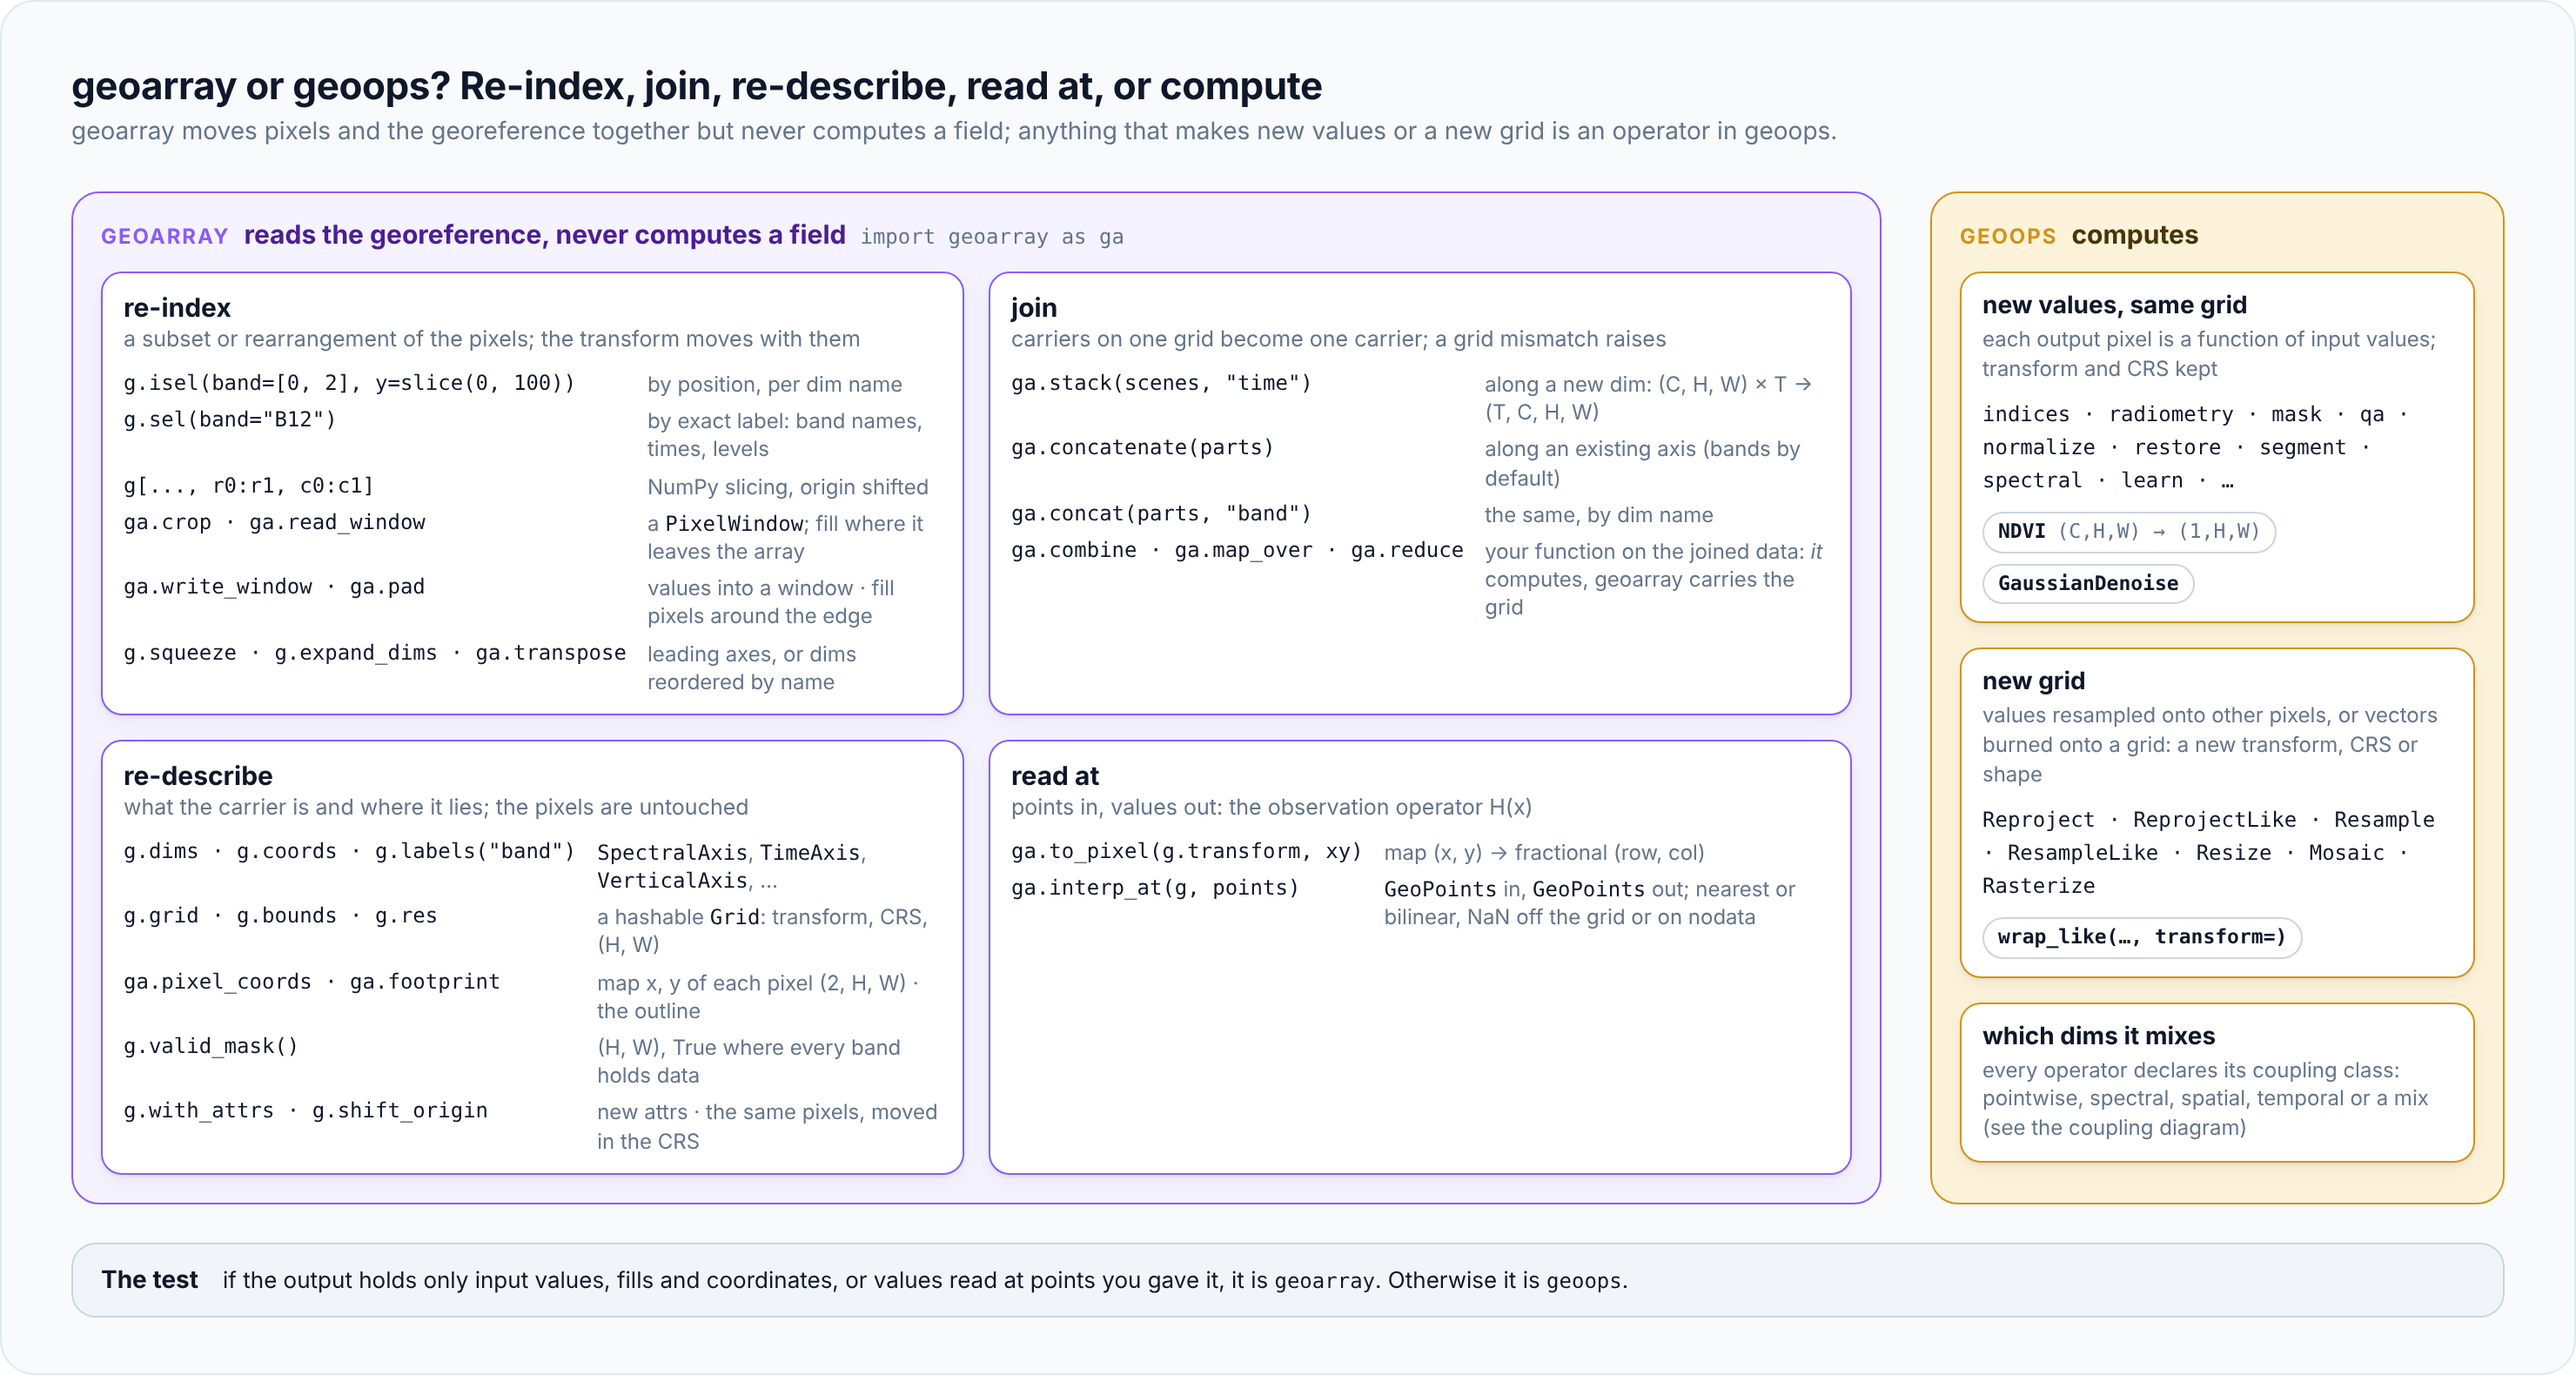
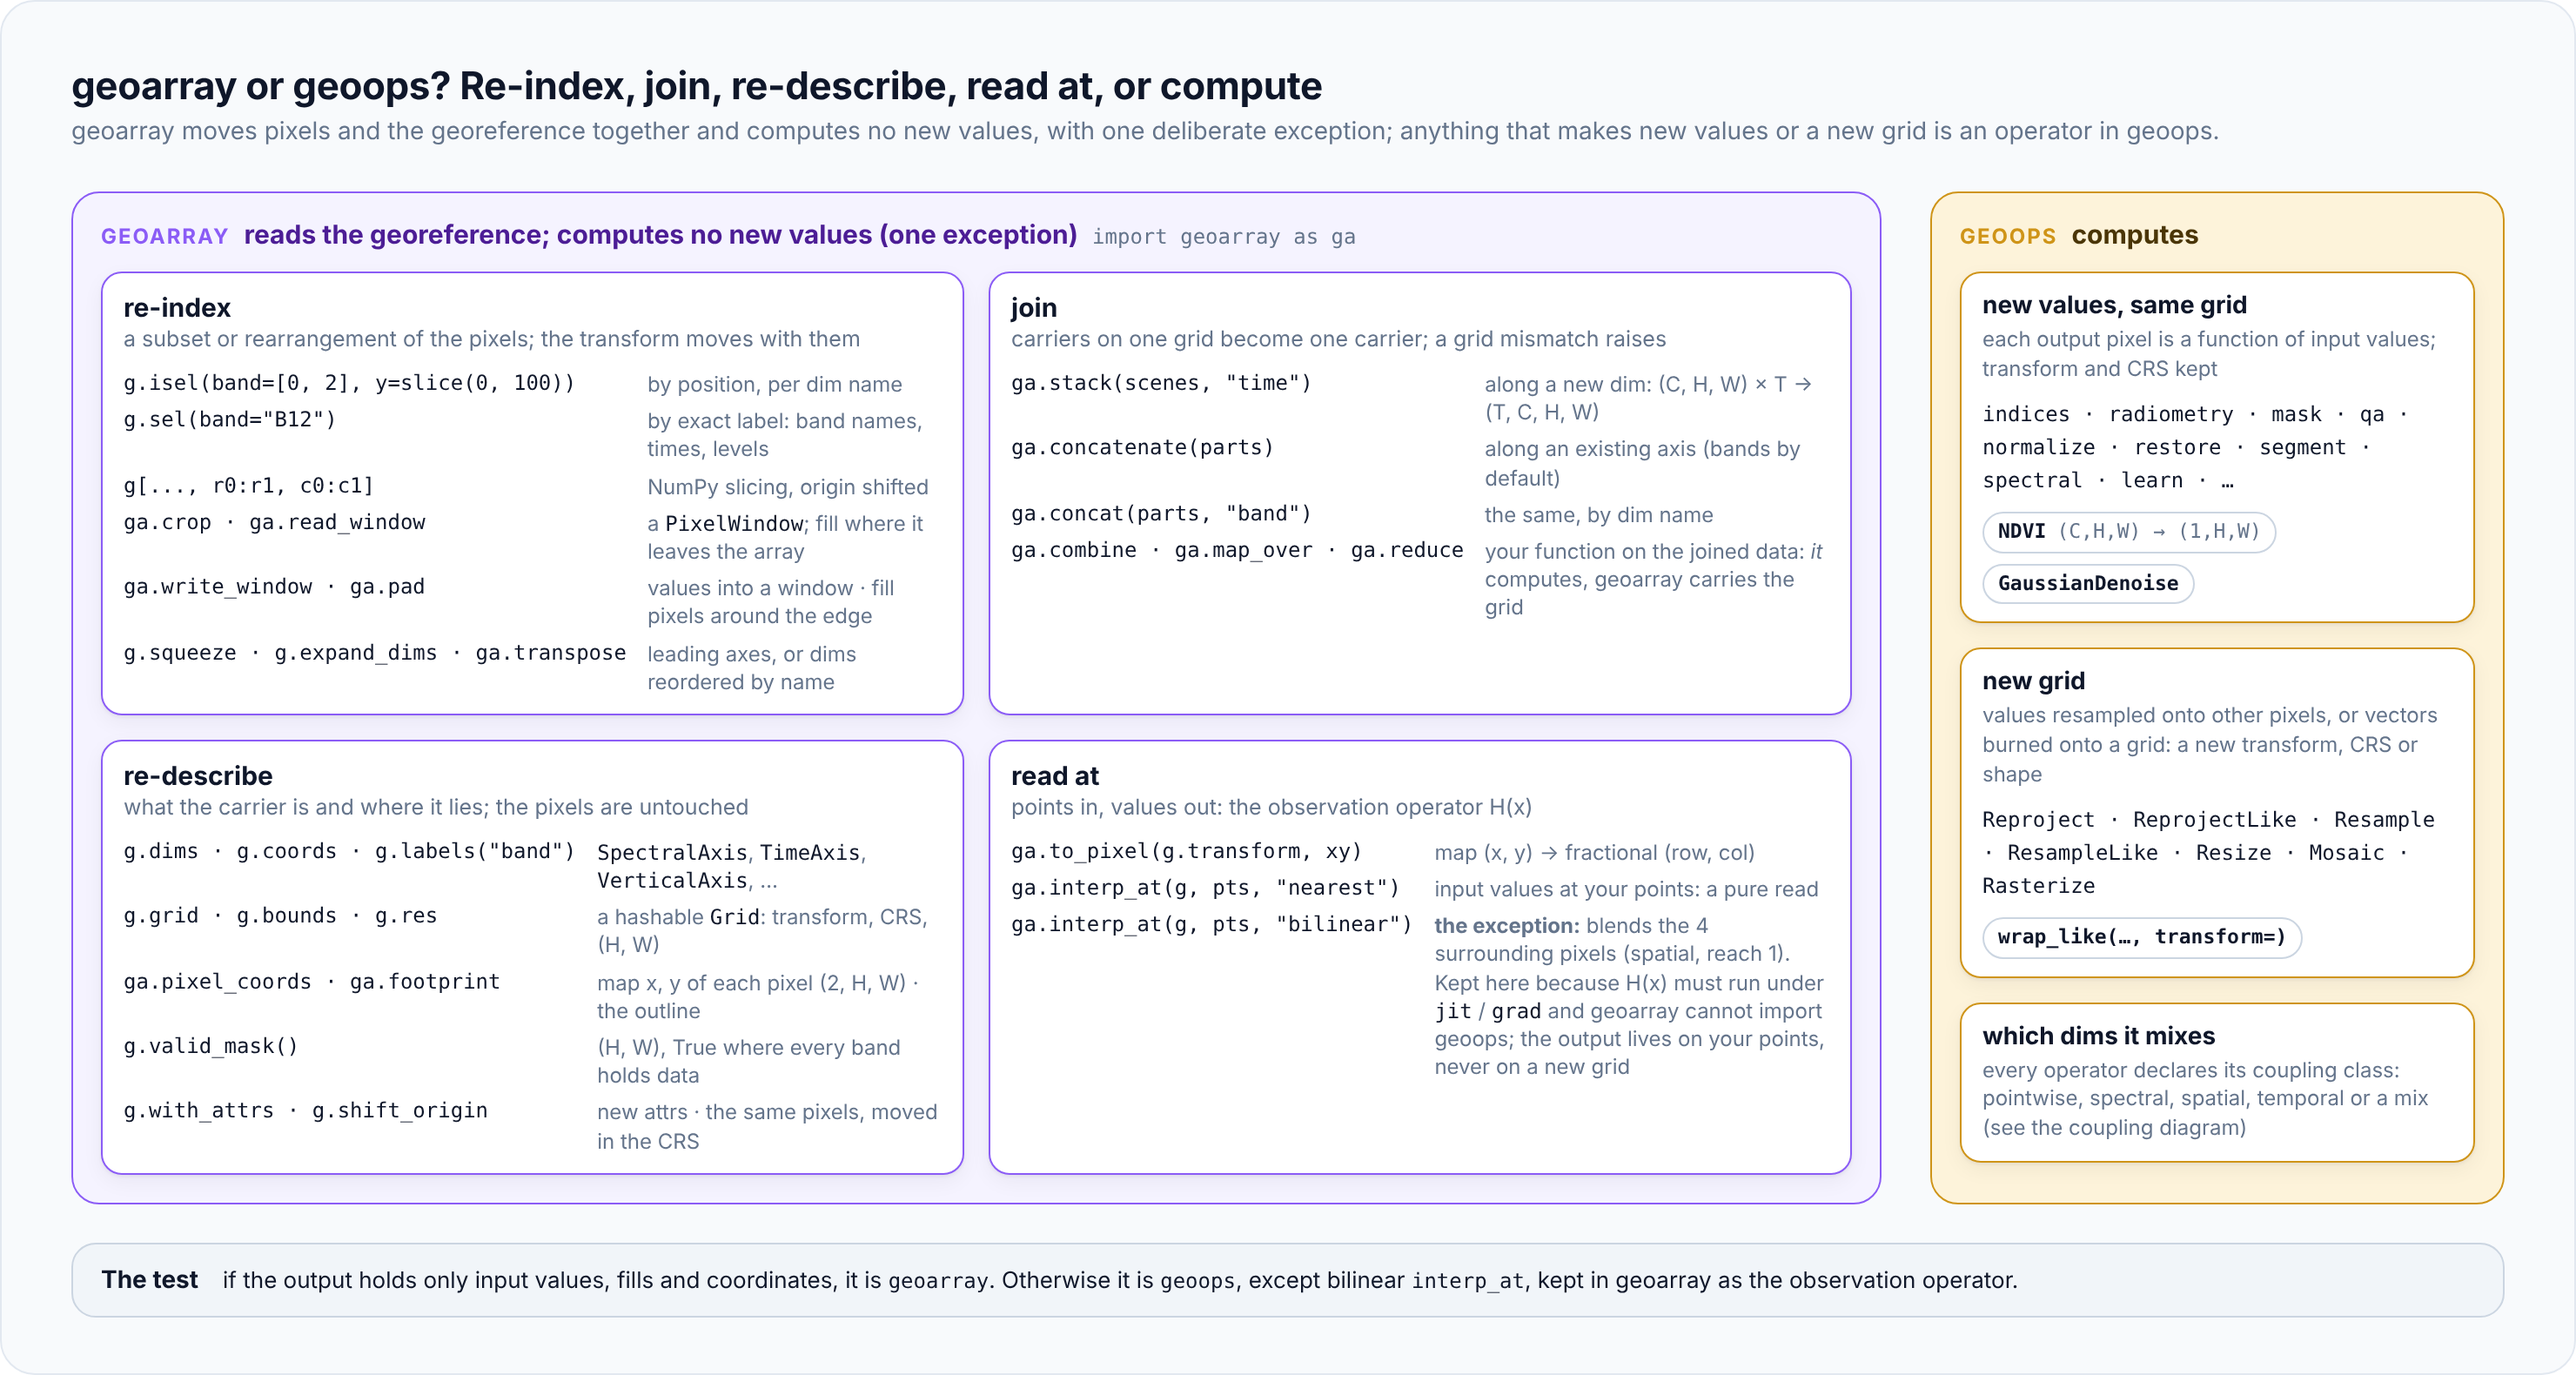
docs(diagrams): name bilinear interp_at as geoarray's one computation
Bilinear sampling blends four pixels, so it computes new values; only
nearest is a pure read. The diagram now says so instead of folding it
into "values read at points".

Claude-Session: https://claude.ai/code/session_01SfgMxYusmtAm4JSFXitLx1

diff --git a/docs/assets/diagrams/geoarray-verbs.html b/docs/assets/diagrams/geoarray-verbs.html
@@ -25,11 +25,11 @@
 <body>
 <div id="diagram">
   <div class="title">geoarray or geoops? Re-index, join, re-describe, read at, or compute</div>
-  <div class="subtitle">geoarray moves pixels and the georeference together but never computes a field; anything that makes new values or a new grid is an operator in geoops.</div>
+  <div class="subtitle">geoarray moves pixels and the georeference together and computes no new values, with one deliberate exception; anything that makes new values or a new grid is an operator in geoops.</div>
 
   <div class="cols">
     <div class="lane geoarray">
-      <div class="lane-head"><span class="verb">geoarray</span><span class="pkg">reads the georeference, never computes a field</span><span class="imp">import geoarray as ga</span></div>
+      <div class="lane-head"><span class="verb">geoarray</span><span class="pkg">reads the georeference; computes no new values (one exception)</span><span class="imp">import geoarray as ga</span></div>
       <div class="verbs">
         <div class="node verb-card geoarray">
           <div class="name">re-index</div>
@@ -69,7 +69,8 @@
           <div class="what">points in, values out: the observation operator H(x)</div>
           <div class="calls">
             <code>ga.to_pixel(g.transform, xy)</code><span>map (x, y) → fractional (row, col)</span>
-            <code>ga.interp_at(g, points)</code><span><code>GeoPoints</code> in, <code>GeoPoints</code> out; nearest or bilinear, NaN off the grid or on nodata</span>
+            <code>ga.interp_at(g, pts, "nearest")</code><span>input values at your points: a pure read</span>
+            <code>ga.interp_at(g, pts, "bilinear")</code><span><b>the exception:</b> blends the 4 surrounding pixels (spatial, reach 1). Kept here because H(x) must run under <code>jit</code> / <code>grad</code> and geoarray cannot import geoops; the output lives on your points, never on a new grid</span>
           </div>
         </div>
       </div>
@@ -96,7 +97,7 @@
     </div>
   </div>
 
-  <div class="test"><b>The test</b><span>if the output holds only input values, fills and coordinates, or values read at points you gave it, it is <code>geoarray</code>. Otherwise it is <code>geoops</code>.</span></div>
+  <div class="test"><b>The test</b><span>if the output holds only input values, fills and coordinates, it is <code>geoarray</code>. Otherwise it is <code>geoops</code>, except bilinear <code>interp_at</code>, kept in geoarray as the observation operator.</span></div>
 </div>
 <script src="_connect.js"></script>
 <script>ready();</script>
